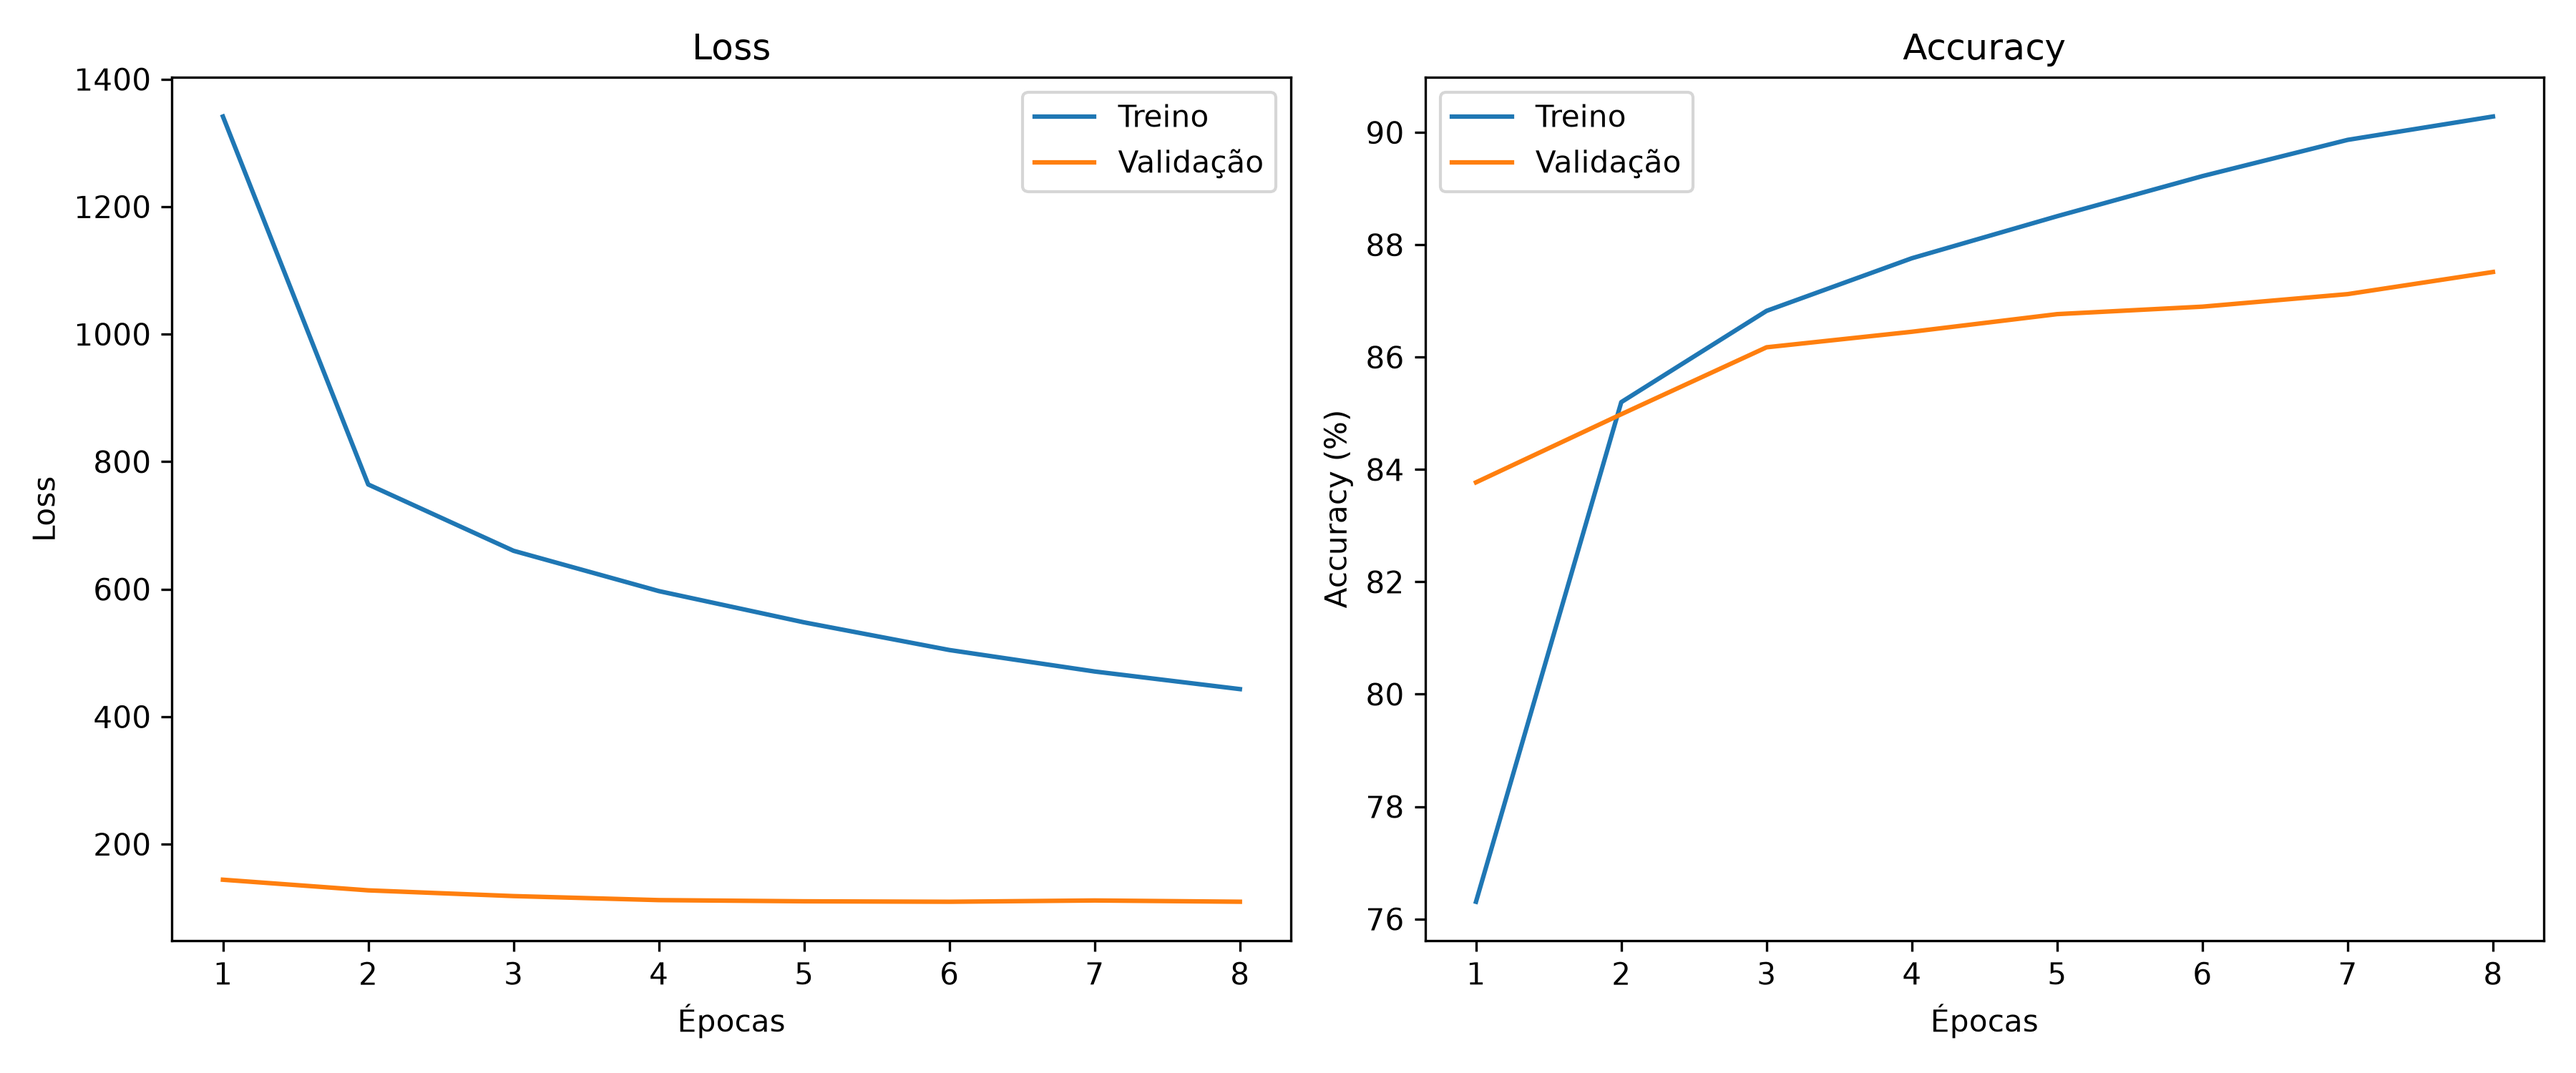
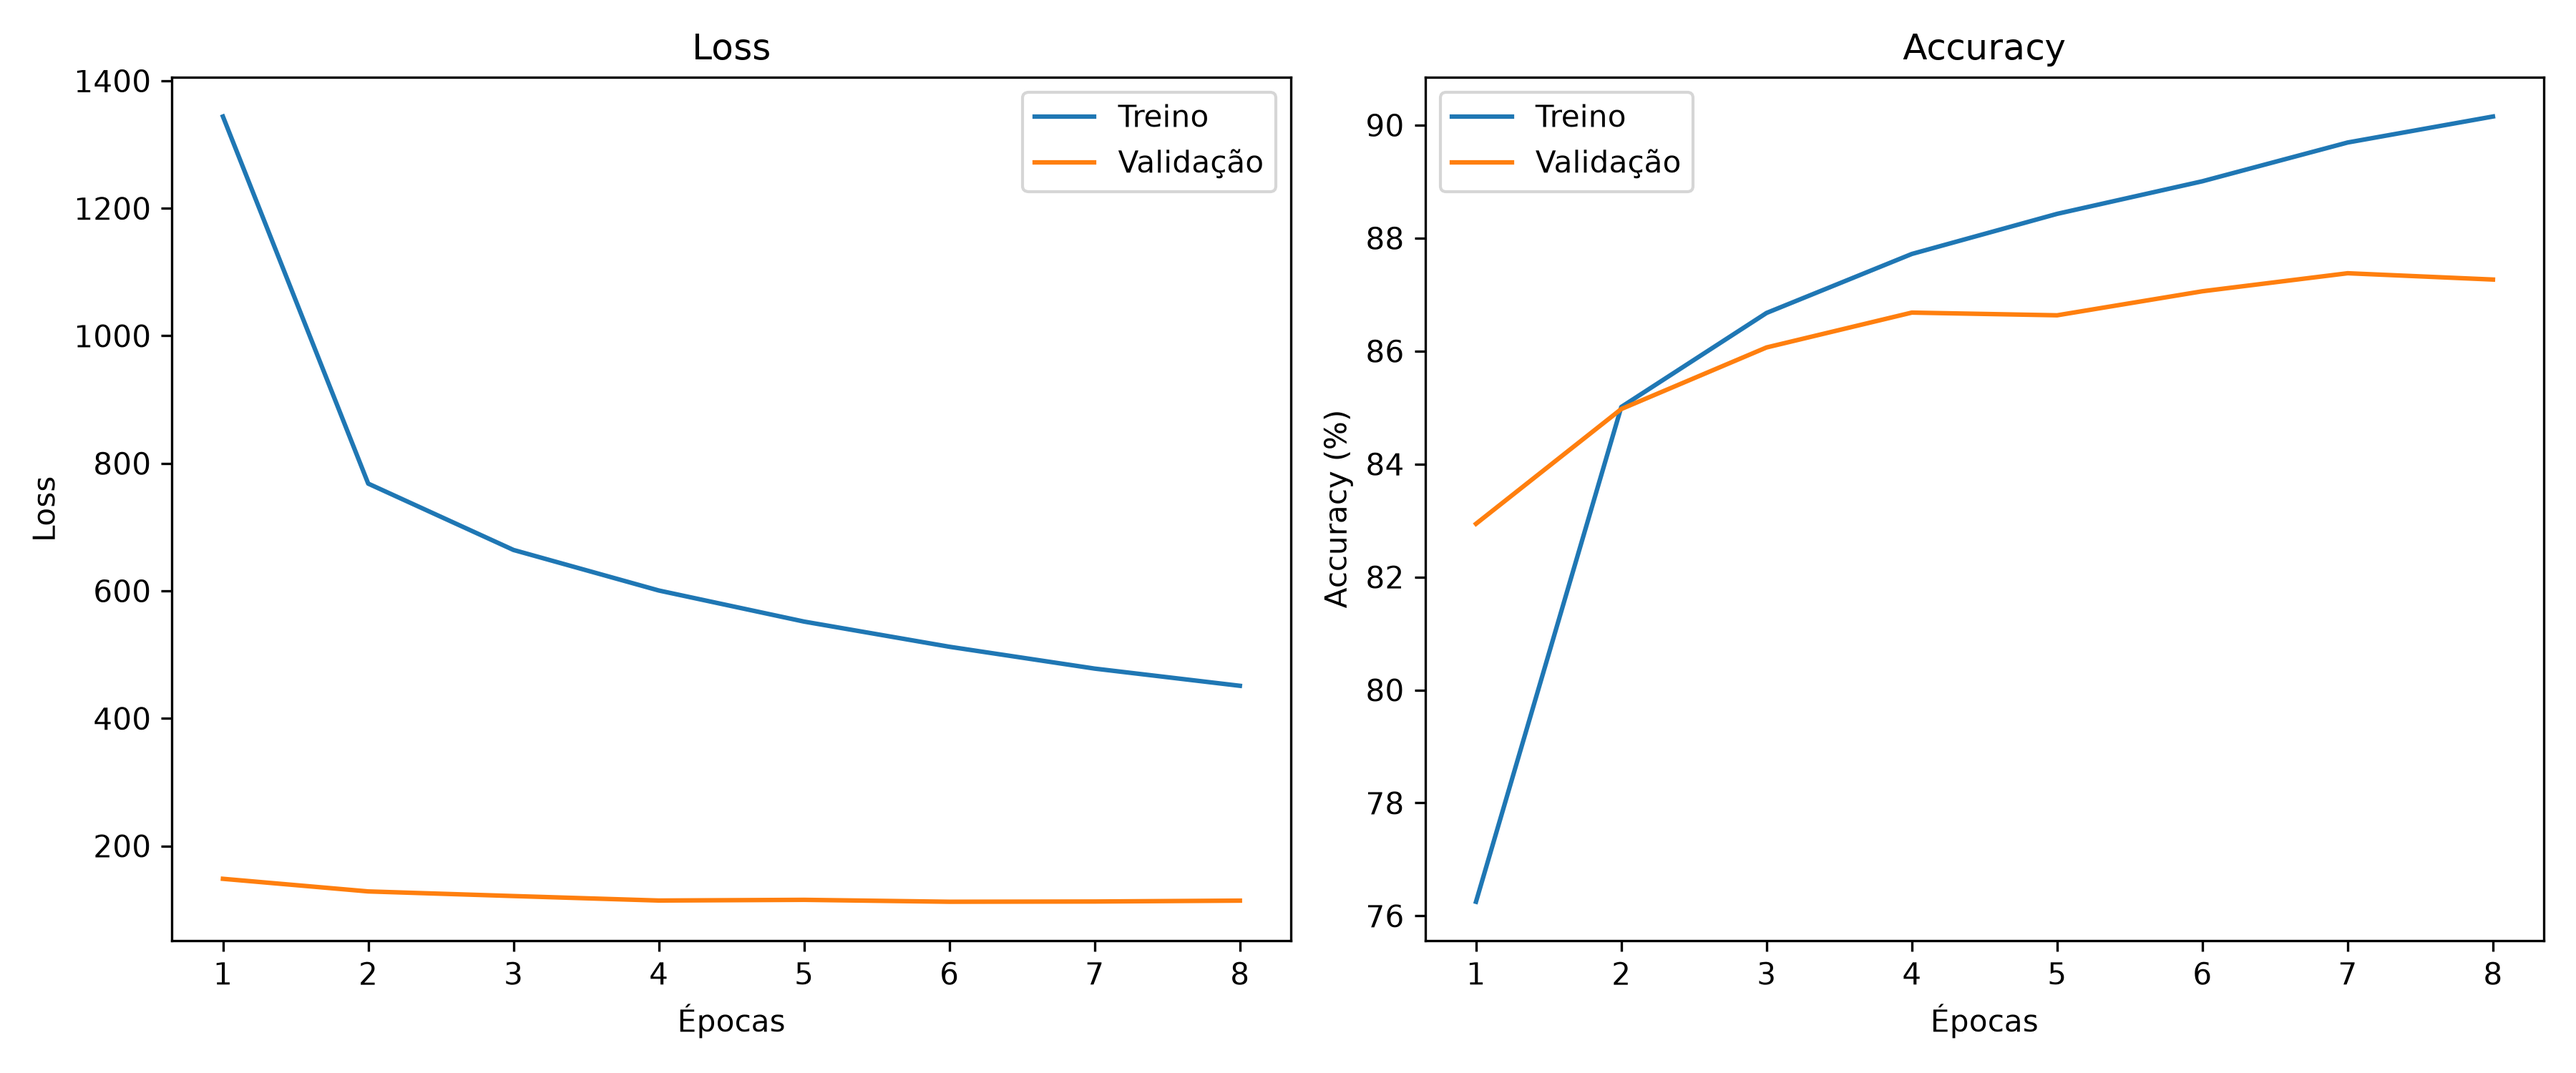
Tentativa de ler o dificil.png
Falha, mas com progresso, a IA reconhece melhor espaçamentos agora, mas ainda sim falha em alguns momentos.

Grandes problemas também ao ler letras cursivas, não consegue identificar quais letras são.

diff --git a/ia_letras_e_alg/opencv/processamento.py b/ia_letras_e_alg/opencv/processamento.py
@@ -1,5 +1,153 @@
 import cv2
 import torch
+import numpy as np
+
+
+def calcular_projecao_vertical(binary, linha, margem_y=2): #margem 2 para segurança
+
+    #descobre a area que cada linha ocupa 
+    x_inicio = min(letra["x"] for letra in linha) #descobre começo da linha de acordo com o menor valor de x encontrado
+    x_fim = max(
+        letra["x"] + letra["w"]
+        for letra in linha
+    )#descobre o final da linha de acordo com o a soma do maior tamanho de x encontrado com a largura calculada da letra 
+
+
+    #mesma logica do x
+    y_inicio = min(letra["y"] for letra in linha)
+    y_fim = max(
+        letra["y"] + letra["h"]
+        for letra in linha
+    )
+
+    #aplicação da margem vertical 
+    y_inicio = max(0, y_inicio - margem_y)#max evita utilizar cordenada negativa(inexistente)
+    y_fim = min(binary.shape[0], y_fim + margem_y)#mesma logica de cima (binary.shape é a altura total da imagem) 
+
+    #recorta apenas essa linha
+    recorte_linha = binary[
+        y_inicio:y_fim,
+        x_inicio:x_fim
+    ]
+
+    #cntagem de pixels brancos por coluna
+    projecao = np.count_nonzero(
+        recorte_linha,
+        axis=0 #vertical
+    )
+
+    return projecao, x_inicio
+
+def encontrar_gaps_verticais(projecao,x_inicio,tolerancia=0): #tolerancia define quando é considerado uma coluna vazia
+    gaps = []
+
+    inicio_gap = None #define se esta dentro de um espaço vazio ou não, caso diferente de none indica a posição inicial do gap
+
+    for i, valor in enumerate(projecao):
+
+        coluna_vazia = valor <= tolerancia # verificacao de coluna vazia
+
+        if coluna_vazia: 
+            if inicio_gap is None:
+                inicio_gap = i # determina o começo do gap ao chegar em uma coluna vazia
+
+        else:
+            if inicio_gap is not None:
+                fim_gap = i - 1 # identifica o indice de quando acaba o gap decrescendo no valor do indice de acesso atual 
+
+                largura = fim_gap - inicio_gap + 1
+
+                gaps.append({
+                    "inicio": x_inicio + inicio_gap,
+                    "fim": x_inicio + fim_gap,
+                    "largura": largura
+                })
+
+                inicio_gap = None
+
+    #tratamento necessario caso o vetor de projecao termine em um gap
+    if inicio_gap is not None:
+        fim_gap = len(projecao) - 1
+
+        gaps.append({
+            "inicio": x_inicio + inicio_gap,
+            "fim": x_inicio + fim_gap,
+            "largura": fim_gap - inicio_gap + 1
+        })
+
+    return gaps
+
+def calcular_limite_espaco(gaps, linha):
+
+    #pega as larguras, ignora os gaps de 1 pixel e coloca em ordem crescente
+    larguras = sorted(
+        gap["largura"]
+        for gap in gaps
+        if gap["largura"] >= 2
+    )
+
+    if len(larguras) < 2: # ??? nn entendi isso aqui direito, vou rever
+        largura_mediana = np.median([
+            letra["w"]
+            for letra in linha
+        ])
+
+        return largura_mediana * 0.7
+
+    #faz o calculo dos gaps, pegando a largura de i + 1 e subitraindo largura de i
+    saltos = []
+
+    for i in range(len(larguras) - 1):
+        salto = larguras[i + 1] - larguras[i]
+
+        saltos.append(salto)
+
+    #identifica qual foi o maior salto feito
+    indice_maior_salto = np.argmax(saltos)
+
+    menor_gap_palavra = larguras[
+        indice_maior_salto + 1
+    ]
+
+    maior_gap_letra = larguras[
+        indice_maior_salto
+    ]
+
+    #limite para passar a ser espaço entre palavra ou letra
+    limite = (
+        maior_gap_letra
+        + menor_gap_palavra
+    ) / 2
+
+    return limite
+
+def detectar_espacos_por_projecao(binary, linha):
+    #calculo de projecao
+    projecao, x_inicio = calcular_projecao_vertical(
+        binary,
+        linha
+    )
+
+    #encontra gaps
+    gaps = encontrar_gaps_verticais(
+        projecao,
+        x_inicio,
+        tolerancia=0
+    )
+    
+    #calcul de limite que separa gap de letras e de linhas
+    limite = calcular_limite_espaco(
+        gaps,
+        linha
+    )
+    
+    #guarda os gaps grandes
+    espacos_palavras = [
+        gap
+        for gap in gaps
+        if gap["largura"] > limite
+    ]
+    return espacos_palavras
 
 def carregar_e_binarizar(caminho_imagem):
     image = cv2.imread(caminho_imagem)

diff --git a/ia_letras_e_alg/opencv/ordenacao.py b/ia_letras_e_alg/opencv/ordenacao.py
@@ -1,3 +1,5 @@
+from processamento import detectar_espacos_por_projecao
+
 def agrupar_em_linhas(letras):
     letras.sort(key=lambda l: l["y"])
     linhas = []
@@ -20,24 +22,50 @@ def agrupar_em_linhas(letras):
         linhas.append(linha_atual)
     return linhas
 
-def reconstruir_texto(linhas):
+def reconstruir_texto(linhas, binary):
     letras_ordenadas_lista = []
 
     for i, linha in enumerate(linhas):
+
         linha.sort(key=lambda l: l["x"])
-        
+
+        espacos = detectar_espacos_por_projecao(
+            binary,
+            linha
+        )
+
         for indice, l in enumerate(linha):
+
             if indice > 0:
-                letra_anterior = linha[indice - 1]
-                fim_anterior = letra_anterior["x"] + letra_anterior["w"]
-                distancia_horizontal = l["x"] - fim_anterior
-                largura_referencia = (letra_anterior["w"] + l["w"]) / 2
-            
-                if distancia_horizontal > largura_referencia * 0.8:
+
+                anterior = linha[indice - 1]
+
+                fim_anterior = (
+                    anterior["x"]
+                    + anterior["w"]
+                )
+
+                inicio_atual = l["x"]
+
+                tem_espaco = False
+
+                for gap in espacos:
+
+                    if (
+                        gap["inicio"] >= fim_anterior
+                        and
+                        gap["fim"] <= inicio_atual
+                    ):
+                        tem_espaco = True
+                        break
+
+                if tem_espaco:
                     letras_ordenadas_lista.append(" ")
-            
-            letras_ordenadas_lista.append(l["previsao"])
-        
+
+            letras_ordenadas_lista.append(
+                l["previsao"]
+            )
+
         if i < len(linhas) - 1:
             letras_ordenadas_lista.append("\n")
 

diff --git a/ia_letras_e_alg/opencv/main.py b/ia_letras_e_alg/opencv/main.py
@@ -59,7 +59,10 @@ for contour in contours:
 
 # 3) Ordenação e montagem do texto
 linhas = agrupar_em_linhas(letras)
-texto_completo = reconstruir_texto(linhas)
+texto_completo = reconstruir_texto(
+    linhas,
+    binary
+)
 
 print("Texto detectado completo:\n")
 print(texto_completo)
